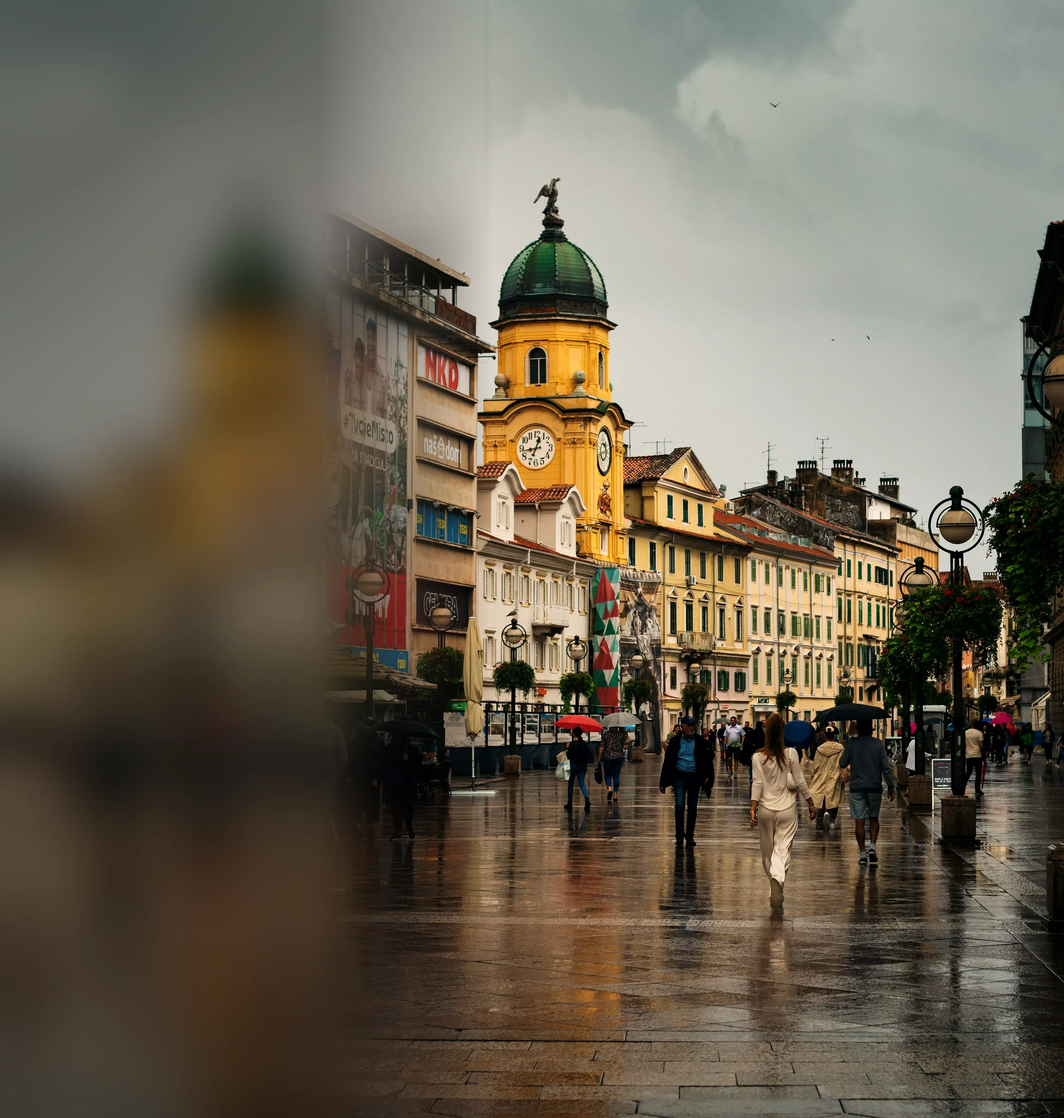
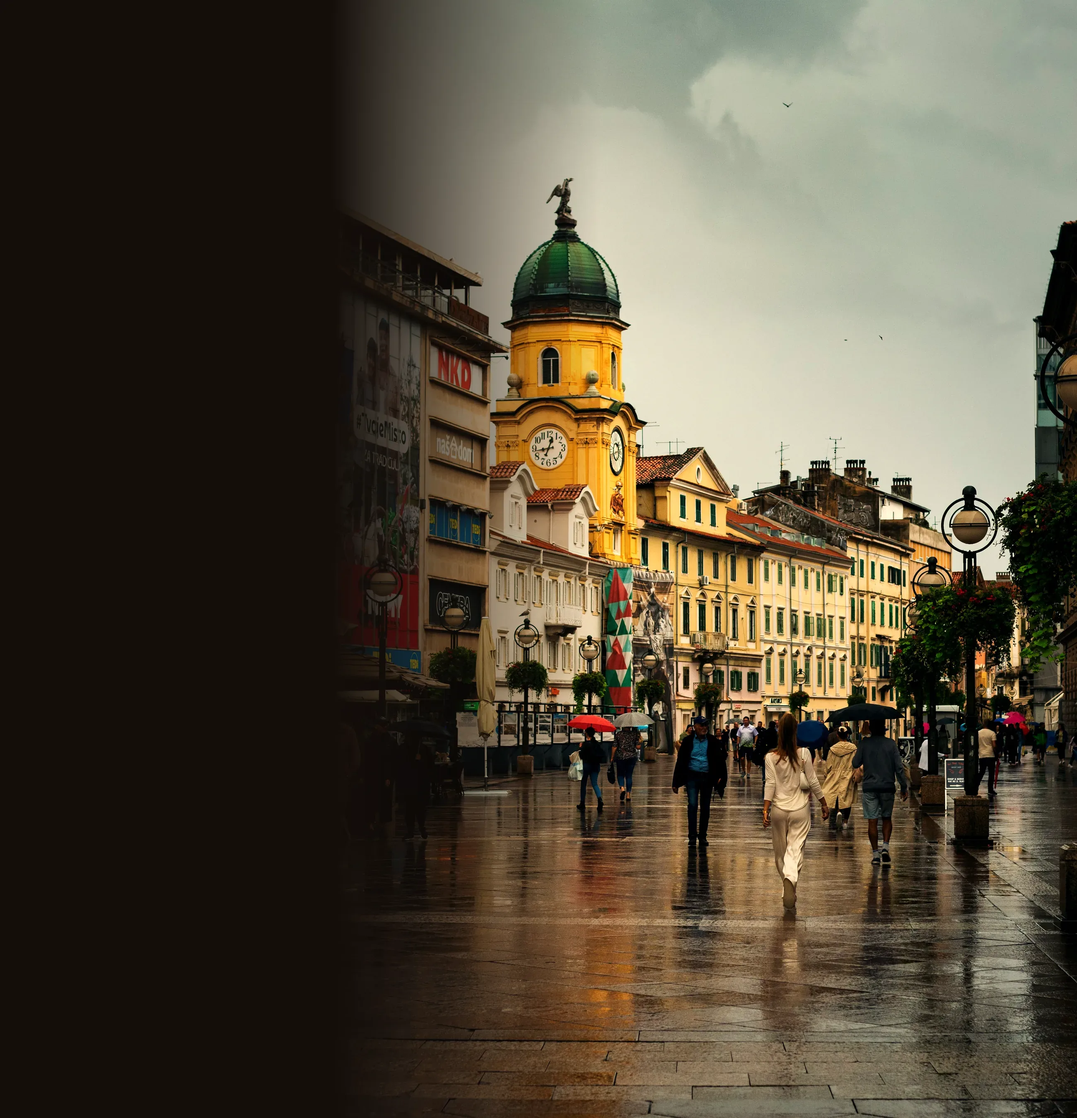
Pravne informacije: cleaner layout, plain dark left side flowing smoothly into a warmer Korzo photo with the whole clock tower and the street

diff --git a/index.html b/index.html
@@ -14,12 +14,12 @@
 <meta property="og:description" content="Prevoditeljska agencija Orbita: ovjereni prijevodi sudskih tumača, pisani i usmeni prijevodi na više od 30 jezika te lektura. Uredi u Rijeci (Kastav) i Zagrebu. Zatražite neobvezujuću ponudu.">
 <meta property="og:image" content="https://www.orbitaprijevodi.com/assets/hero-desk.jpg">
 <meta property="og:locale" content="hr_HR">
-<link rel="preload" as="image" href="assets/hero-desk.webp?v=110" type="image/webp">
+<link rel="preload" as="image" href="assets/hero-desk.webp?v=112" type="image/webp">
 <script type="application/ld+json">{"@context": "https://schema.org", "@graph": [{"@type": "ProfessionalService", "name": "Orbita prijevodi, ured u Rijeci", "url": "https://www.orbitaprijevodi.com/", "image": "https://www.orbitaprijevodi.com/assets/hero-desk.jpg", "logo": "https://www.orbitaprijevodi.com/assets/orbita-logo.png", "telephone": "+385981631930", "email": "info@orbitaprijevodi.com", "address": {"@type": "PostalAddress", "streetAddress": "Ćikovići 109", "addressLocality": "Kastav", "postalCode": "51215", "addressCountry": "HR"}, "areaServed": "HR", "knowsLanguage": ["hr", "en", "sl", "sr", "de", "it", "fr", "es"], "contactPoint": [{"@type": "ContactPoint", "telephone": "+385981631930", "contactType": "customer service", "availableLanguage": ["Croatian", "English", "Slovenian"]}, {"@type": "ContactPoint", "telephone": "+38551223932", "contactType": "customer service", "availableLanguage": ["Croatian", "English", "Slovenian"]}]}, {"@type": "ProfessionalService", "name": "Orbita prijevodi, ured u Zagrebu", "url": "https://www.orbitaprijevodi.com/", "image": "https://www.orbitaprijevodi.com/assets/hero-desk.jpg", "logo": "https://www.orbitaprijevodi.com/assets/orbita-logo.png", "telephone": "+385916126784", "email": "zagreb@orbitaprijevodi.com", "address": {"@type": "PostalAddress", "streetAddress": "Martićeva ulica 67", "addressLocality": "Zagreb", "postalCode": "10000", "addressCountry": "HR"}, "areaServed": "HR", "knowsLanguage": ["hr", "en", "sl", "sr", "de", "it", "fr", "es"], "contactPoint": [{"@type": "ContactPoint", "telephone": "+385916126784", "contactType": "customer service", "availableLanguage": ["Croatian", "English", "Slovenian"]}, {"@type": "ContactPoint", "telephone": "+38512018053", "contactType": "customer service", "availableLanguage": ["Croatian", "English", "Slovenian"]}]}]}</script>
 <link rel="preconnect" href="https://fonts.googleapis.com">
 <link rel="preconnect" href="https://fonts.gstatic.com" crossorigin>
 <link href="https://fonts.googleapis.com/css2?family=Fraunces:ital,opsz,wght@0,9..144,300;0,9..144,400;1,9..144,300;1,9..144,400&family=DM+Sans:wght@400;500&family=DM+Mono:wght@400&display=swap" rel="stylesheet">
-<link rel="stylesheet" href="styles.css?v=110">
+<link rel="stylesheet" href="styles.css?v=112">
 </head>
 <body>
 
@@ -308,11 +308,11 @@
 
 <a class="float-cta pill pill-accent" href="#ponuda">Zatražite ponudu</a>
 
-<script src="content.js?v=110"></script>
+<script src="content.js?v=112"></script>
 <script src="https://cdn.jsdelivr.net/npm/topojson-client@3.1.0/dist/topojson-client.min.js"></script>
-<script src="globe.js?v=110"></script>
-<script src="app.js?v=110"></script>
-<script src="form.js?v=110"></script>
-<script src="consent.js?v=110"></script>
+<script src="globe.js?v=112"></script>
+<script src="app.js?v=112"></script>
+<script src="form.js?v=112"></script>
+<script src="consent.js?v=112"></script>
 </body>
 </html>

diff --git a/pisanje-dokumentacije-za-studij-i-zaposlenje-u-inozemstvu/index.html b/pisanje-dokumentacije-za-studij-i-zaposlenje-u-inozemstvu/index.html
@@ -19,7 +19,7 @@
 <link rel="preconnect" href="https://fonts.googleapis.com">
 <link rel="preconnect" href="https://fonts.gstatic.com" crossorigin>
 <link href="https://fonts.googleapis.com/css2?family=Fraunces:ital,opsz,wght@0,9..144,300;0,9..144,400;1,9..144,300;1,9..144,400&family=DM+Sans:wght@400;500&family=DM+Mono:wght@400&display=swap" rel="stylesheet">
-<link rel="stylesheet" href="../styles.css?v=110">
+<link rel="stylesheet" href="../styles.css?v=112">
 </head>
 <body class="subpage">
 <header class="nav" id="nav">
@@ -39,7 +39,7 @@
 </header>
 <main>
   <section class="hero page-hero">
-    <div class="hero-bg lp-photo" style="background-image:url(../assets/usluge/pisanje-dokumentacije-za-studij-i-zaposlenje-u-inozemstvu.webp?v=110);background-position:50% 0%" aria-hidden="true"></div>
+    <div class="hero-bg lp-photo" style="background-image:url(../assets/usluge/pisanje-dokumentacije-za-studij-i-zaposlenje-u-inozemstvu.webp?v=112);background-position:50% 0%" aria-hidden="true"></div>
     <div class="hero-text">
       <div class="lp-offices" aria-label="Naši uredi"><div><strong>Rijeka</strong><span>Ćikovići 109, 51215 Kastav</span><a href="tel:+385981631930">098 163 19 30</a><a href="mailto:info@orbitaprijevodi.com">info@orbitaprijevodi.com</a></div><div><strong>Zagreb</strong><span>Martićeva ulica 67, 10000 Zagreb</span><a href="tel:+385916126784">091 612 6784</a><a href="mailto:zagreb@orbitaprijevodi.com">zagreb@orbitaprijevodi.com</a></div></div>
       <nav class="crumbs" aria-label="Putanja"><a href="../">Početna</a> <span>/</span> <a href="../usluge/">Usluge</a> <span>/</span> <span aria-current="page">Studij i posao u inozemstvu</span></nav>
@@ -140,8 +140,8 @@
     <nav><a href="../kontakt/">Kontakt</a><a href="../pravne-informacije/">Pravne informacije</a><a href="../zastita-privatnosti/">Zaštita privatnosti</a><a href="#" data-cookie-settings>Postavke kolačića</a></nav>
   </div>
 </footer>
-<script src="../page.js?v=110"></script>
-<script src="../consent.js?v=110"></script>
-<script src="../form.js?v=110"></script>
+<script src="../page.js?v=112"></script>
+<script src="../consent.js?v=112"></script>
+<script src="../form.js?v=112"></script>
 </body>
 </html>

diff --git a/pisanje-u-raznim-profesionalnim-podrucjima/index.html b/pisanje-u-raznim-profesionalnim-podrucjima/index.html
@@ -19,7 +19,7 @@
 <link rel="preconnect" href="https://fonts.googleapis.com">
 <link rel="preconnect" href="https://fonts.gstatic.com" crossorigin>
 <link href="https://fonts.googleapis.com/css2?family=Fraunces:ital,opsz,wght@0,9..144,300;0,9..144,400;1,9..144,300;1,9..144,400&family=DM+Sans:wght@400;500&family=DM+Mono:wght@400&display=swap" rel="stylesheet">
-<link rel="stylesheet" href="../styles.css?v=110">
+<link rel="stylesheet" href="../styles.css?v=112">
 </head>
 <body class="subpage">
 <header class="nav" id="nav">
@@ -39,7 +39,7 @@
 </header>
 <main>
   <section class="hero page-hero">
-    <div class="hero-bg lp-photo" style="background-image:url(../assets/usluge/pisanje-u-raznim-profesionalnim-podrucjima.webp?v=110);background-position:40% 50%" aria-hidden="true"></div>
+    <div class="hero-bg lp-photo" style="background-image:url(../assets/usluge/pisanje-u-raznim-profesionalnim-podrucjima.webp?v=112);background-position:40% 50%" aria-hidden="true"></div>
     <div class="hero-text">
       <div class="lp-offices" aria-label="Naši uredi"><div><strong>Rijeka</strong><span>Ćikovići 109, 51215 Kastav</span><a href="tel:+385981631930">098 163 19 30</a><a href="mailto:info@orbitaprijevodi.com">info@orbitaprijevodi.com</a></div><div><strong>Zagreb</strong><span>Martićeva ulica 67, 10000 Zagreb</span><a href="tel:+385916126784">091 612 6784</a><a href="mailto:zagreb@orbitaprijevodi.com">zagreb@orbitaprijevodi.com</a></div></div>
       <nav class="crumbs" aria-label="Putanja"><a href="../">Početna</a> <span>/</span> <a href="../usluge/">Usluge</a> <span>/</span> <span aria-current="page">Stručni tekstovi</span></nav>
@@ -140,8 +140,8 @@
     <nav><a href="../kontakt/">Kontakt</a><a href="../pravne-informacije/">Pravne informacije</a><a href="../zastita-privatnosti/">Zaštita privatnosti</a><a href="#" data-cookie-settings>Postavke kolačića</a></nav>
   </div>
 </footer>
-<script src="../page.js?v=110"></script>
-<script src="../consent.js?v=110"></script>
-<script src="../form.js?v=110"></script>
+<script src="../page.js?v=112"></script>
+<script src="../consent.js?v=112"></script>
+<script src="../form.js?v=112"></script>
 </body>
 </html>

diff --git a/asistiranje-u-pisanju-teksta/index.html b/asistiranje-u-pisanju-teksta/index.html
@@ -19,7 +19,7 @@
 <link rel="preconnect" href="https://fonts.googleapis.com">
 <link rel="preconnect" href="https://fonts.gstatic.com" crossorigin>
 <link href="https://fonts.googleapis.com/css2?family=Fraunces:ital,opsz,wght@0,9..144,300;0,9..144,400;1,9..144,300;1,9..144,400&family=DM+Sans:wght@400;500&family=DM+Mono:wght@400&display=swap" rel="stylesheet">
-<link rel="stylesheet" href="../styles.css?v=110">
+<link rel="stylesheet" href="../styles.css?v=112">
 </head>
 <body class="subpage">
 <header class="nav" id="nav">
@@ -39,7 +39,7 @@
 </header>
 <main>
   <section class="hero page-hero">
-    <div class="hero-bg lp-photo" style="background-image:url(../assets/usluge/asistiranje-u-pisanju-teksta.webp?v=110);background-position:50% 45%" aria-hidden="true"></div>
+    <div class="hero-bg lp-photo" style="background-image:url(../assets/usluge/asistiranje-u-pisanju-teksta.webp?v=112);background-position:50% 45%" aria-hidden="true"></div>
     <div class="hero-text">
       <div class="lp-offices" aria-label="Naši uredi"><div><strong>Rijeka</strong><span>Ćikovići 109, 51215 Kastav</span><a href="tel:+385981631930">098 163 19 30</a><a href="mailto:info@orbitaprijevodi.com">info@orbitaprijevodi.com</a></div><div><strong>Zagreb</strong><span>Martićeva ulica 67, 10000 Zagreb</span><a href="tel:+385916126784">091 612 6784</a><a href="mailto:zagreb@orbitaprijevodi.com">zagreb@orbitaprijevodi.com</a></div></div>
       <nav class="crumbs" aria-label="Putanja"><a href="../">Početna</a> <span>/</span> <a href="../usluge/">Usluge</a> <span>/</span> <span aria-current="page">Životopisi i motivacijska pisma</span></nav>
@@ -140,8 +140,8 @@
     <nav><a href="../kontakt/">Kontakt</a><a href="../pravne-informacije/">Pravne informacije</a><a href="../zastita-privatnosti/">Zaštita privatnosti</a><a href="#" data-cookie-settings>Postavke kolačića</a></nav>
   </div>
 </footer>
-<script src="../page.js?v=110"></script>
-<script src="../consent.js?v=110"></script>
-<script src="../form.js?v=110"></script>
+<script src="../page.js?v=112"></script>
+<script src="../consent.js?v=112"></script>
+<script src="../form.js?v=112"></script>
 </body>
 </html>

diff --git a/marketinski-tekstovi/index.html b/marketinski-tekstovi/index.html
@@ -19,7 +19,7 @@
 <link rel="preconnect" href="https://fonts.googleapis.com">
 <link rel="preconnect" href="https://fonts.gstatic.com" crossorigin>
 <link href="https://fonts.googleapis.com/css2?family=Fraunces:ital,opsz,wght@0,9..144,300;0,9..144,400;1,9..144,300;1,9..144,400&family=DM+Sans:wght@400;500&family=DM+Mono:wght@400&display=swap" rel="stylesheet">
-<link rel="stylesheet" href="../styles.css?v=110">
+<link rel="stylesheet" href="../styles.css?v=112">
 </head>
 <body class="subpage">
 <header class="nav" id="nav">
@@ -39,7 +39,7 @@
 </header>
 <main>
   <section class="hero page-hero">
-    <div class="hero-bg lp-photo" style="background-image:url(../assets/usluge/marketinski-tekstovi.webp?v=110);background-position:5% 55%" aria-hidden="true"></div>
+    <div class="hero-bg lp-photo" style="background-image:url(../assets/usluge/marketinski-tekstovi.webp?v=112);background-position:5% 55%" aria-hidden="true"></div>
     <div class="hero-text">
       <div class="lp-offices" aria-label="Naši uredi"><div><strong>Rijeka</strong><span>Ćikovići 109, 51215 Kastav</span><a href="tel:+385981631930">098 163 19 30</a><a href="mailto:info@orbitaprijevodi.com">info@orbitaprijevodi.com</a></div><div><strong>Zagreb</strong><span>Martićeva ulica 67, 10000 Zagreb</span><a href="tel:+385916126784">091 612 6784</a><a href="mailto:zagreb@orbitaprijevodi.com">zagreb@orbitaprijevodi.com</a></div></div>
       <nav class="crumbs" aria-label="Putanja"><a href="../">Početna</a> <span>/</span> <a href="../usluge/">Usluge</a> <span>/</span> <span aria-current="page">Marketinški tekstovi</span></nav>
@@ -140,8 +140,8 @@
     <nav><a href="../kontakt/">Kontakt</a><a href="../pravne-informacije/">Pravne informacije</a><a href="../zastita-privatnosti/">Zaštita privatnosti</a><a href="#" data-cookie-settings>Postavke kolačića</a></nav>
   </div>
 </footer>
-<script src="../page.js?v=110"></script>
-<script src="../consent.js?v=110"></script>
-<script src="../form.js?v=110"></script>
+<script src="../page.js?v=112"></script>
+<script src="../consent.js?v=112"></script>
+<script src="../form.js?v=112"></script>
 </body>
 </html>

diff --git a/ovjereni-prijevodi/index.html b/ovjereni-prijevodi/index.html
@@ -19,7 +19,7 @@
 <link rel="preconnect" href="https://fonts.googleapis.com">
 <link rel="preconnect" href="https://fonts.gstatic.com" crossorigin>
 <link href="https://fonts.googleapis.com/css2?family=Fraunces:ital,opsz,wght@0,9..144,300;0,9..144,400;1,9..144,300;1,9..144,400&family=DM+Sans:wght@400;500&family=DM+Mono:wght@400&display=swap" rel="stylesheet">
-<link rel="stylesheet" href="../styles.css?v=110">
+<link rel="stylesheet" href="../styles.css?v=112">
 </head>
 <body class="subpage">
 <header class="nav" id="nav">
@@ -39,7 +39,7 @@
 </header>
 <main>
   <section class="hero page-hero">
-    <div class="hero-bg lp-photo" style="background-image:url(../assets/usluge/ovjereni-prijevodi.webp?v=110);background-position:45% 60%" aria-hidden="true"></div>
+    <div class="hero-bg lp-photo" style="background-image:url(../assets/usluge/ovjereni-prijevodi.webp?v=112);background-position:45% 60%" aria-hidden="true"></div>
     <div class="hero-text">
       <div class="lp-offices" aria-label="Naši uredi"><div><strong>Rijeka</strong><span>Ćikovići 109, 51215 Kastav</span><a href="tel:+385981631930">098 163 19 30</a><a href="mailto:info@orbitaprijevodi.com">info@orbitaprijevodi.com</a></div><div><strong>Zagreb</strong><span>Martićeva ulica 67, 10000 Zagreb</span><a href="tel:+385916126784">091 612 6784</a><a href="mailto:zagreb@orbitaprijevodi.com">zagreb@orbitaprijevodi.com</a></div></div>
       <nav class="crumbs" aria-label="Putanja"><a href="../">Početna</a> <span>/</span> <a href="../usluge/">Usluge</a> <span>/</span> <span aria-current="page">Ovjereni prijevodi</span></nav>
@@ -142,8 +142,8 @@
     <nav><a href="../kontakt/">Kontakt</a><a href="../pravne-informacije/">Pravne informacije</a><a href="../zastita-privatnosti/">Zaštita privatnosti</a><a href="#" data-cookie-settings>Postavke kolačića</a></nav>
   </div>
 </footer>
-<script src="../page.js?v=110"></script>
-<script src="../consent.js?v=110"></script>
-<script src="../form.js?v=110"></script>
+<script src="../page.js?v=112"></script>
+<script src="../consent.js?v=112"></script>
+<script src="../form.js?v=112"></script>
 </body>
 </html>

diff --git a/usmeni-prijevodi/index.html b/usmeni-prijevodi/index.html
@@ -19,7 +19,7 @@
 <link rel="preconnect" href="https://fonts.googleapis.com">
 <link rel="preconnect" href="https://fonts.gstatic.com" crossorigin>
 <link href="https://fonts.googleapis.com/css2?family=Fraunces:ital,opsz,wght@0,9..144,300;0,9..144,400;1,9..144,300;1,9..144,400&family=DM+Sans:wght@400;500&family=DM+Mono:wght@400&display=swap" rel="stylesheet">
-<link rel="stylesheet" href="../styles.css?v=110">
+<link rel="stylesheet" href="../styles.css?v=112">
 </head>
 <body class="subpage">
 <header class="nav" id="nav">
@@ -39,7 +39,7 @@
 </header>
 <main>
   <section class="hero page-hero">
-    <div class="hero-bg lp-photo" style="background-image:url(../assets/usluge/usmeni-prijevodi.webp?v=110);background-position:55% 70%" aria-hidden="true"></div>
+    <div class="hero-bg lp-photo" style="background-image:url(../assets/usluge/usmeni-prijevodi.webp?v=112);background-position:55% 70%" aria-hidden="true"></div>
     <div class="hero-text">
       <div class="lp-offices" aria-label="Naši uredi"><div><strong>Rijeka</strong><span>Ćikovići 109, 51215 Kastav</span><a href="tel:+385981631930">098 163 19 30</a><a href="mailto:info@orbitaprijevodi.com">info@orbitaprijevodi.com</a></div><div><strong>Zagreb</strong><span>Martićeva ulica 67, 10000 Zagreb</span><a href="tel:+385916126784">091 612 6784</a><a href="mailto:zagreb@orbitaprijevodi.com">zagreb@orbitaprijevodi.com</a></div></div>
       <nav class="crumbs" aria-label="Putanja"><a href="../">Početna</a> <span>/</span> <a href="../usluge/">Usluge</a> <span>/</span> <span aria-current="page">Usmeno prevođenje</span></nav>
@@ -140,8 +140,8 @@
     <nav><a href="../kontakt/">Kontakt</a><a href="../pravne-informacije/">Pravne informacije</a><a href="../zastita-privatnosti/">Zaštita privatnosti</a><a href="#" data-cookie-settings>Postavke kolačića</a></nav>
   </div>
 </footer>
-<script src="../page.js?v=110"></script>
-<script src="../consent.js?v=110"></script>
-<script src="../form.js?v=110"></script>
+<script src="../page.js?v=112"></script>
+<script src="../consent.js?v=112"></script>
+<script src="../form.js?v=112"></script>
 </body>
 </html>

diff --git a/pisani-prijevodi/index.html b/pisani-prijevodi/index.html
@@ -19,7 +19,7 @@
 <link rel="preconnect" href="https://fonts.googleapis.com">
 <link rel="preconnect" href="https://fonts.gstatic.com" crossorigin>
 <link href="https://fonts.googleapis.com/css2?family=Fraunces:ital,opsz,wght@0,9..144,300;0,9..144,400;1,9..144,300;1,9..144,400&family=DM+Sans:wght@400;500&family=DM+Mono:wght@400&display=swap" rel="stylesheet">
-<link rel="stylesheet" href="../styles.css?v=110">
+<link rel="stylesheet" href="../styles.css?v=112">
 </head>
 <body class="subpage">
 <header class="nav" id="nav">
@@ -39,7 +39,7 @@
 </header>
 <main>
   <section class="hero page-hero">
-    <div class="hero-bg lp-photo" style="background-image:url(../assets/usluge/pisani-prijevodi.webp?v=110);background-position:70% 40%" aria-hidden="true"></div>
+    <div class="hero-bg lp-photo" style="background-image:url(../assets/usluge/pisani-prijevodi.webp?v=112);background-position:70% 40%" aria-hidden="true"></div>
     <div class="hero-text">
       <div class="lp-offices" aria-label="Naši uredi"><div><strong>Rijeka</strong><span>Ćikovići 109, 51215 Kastav</span><a href="tel:+385981631930">098 163 19 30</a><a href="mailto:info@orbitaprijevodi.com">info@orbitaprijevodi.com</a></div><div><strong>Zagreb</strong><span>Martićeva ulica 67, 10000 Zagreb</span><a href="tel:+385916126784">091 612 6784</a><a href="mailto:zagreb@orbitaprijevodi.com">zagreb@orbitaprijevodi.com</a></div></div>
       <nav class="crumbs" aria-label="Putanja"><a href="../">Početna</a> <span>/</span> <a href="../usluge/">Usluge</a> <span>/</span> <span aria-current="page">Pisani prijevodi</span></nav>
@@ -141,8 +141,8 @@
     <nav><a href="../kontakt/">Kontakt</a><a href="../pravne-informacije/">Pravne informacije</a><a href="../zastita-privatnosti/">Zaštita privatnosti</a><a href="#" data-cookie-settings>Postavke kolačića</a></nav>
   </div>
 </footer>
-<script src="../page.js?v=110"></script>
-<script src="../consent.js?v=110"></script>
-<script src="../form.js?v=110"></script>
+<script src="../page.js?v=112"></script>
+<script src="../consent.js?v=112"></script>
+<script src="../form.js?v=112"></script>
 </body>
 </html>

diff --git a/lektoriranje/index.html b/lektoriranje/index.html
@@ -19,7 +19,7 @@
 <link rel="preconnect" href="https://fonts.googleapis.com">
 <link rel="preconnect" href="https://fonts.gstatic.com" crossorigin>
 <link href="https://fonts.googleapis.com/css2?family=Fraunces:ital,opsz,wght@0,9..144,300;0,9..144,400;1,9..144,300;1,9..144,400&family=DM+Sans:wght@400;500&family=DM+Mono:wght@400&display=swap" rel="stylesheet">
-<link rel="stylesheet" href="../styles.css?v=110">
+<link rel="stylesheet" href="../styles.css?v=112">
 </head>
 <body class="subpage">
 <header class="nav" id="nav">
@@ -39,7 +39,7 @@
 </header>
 <main>
   <section class="hero page-hero">
-    <div class="hero-bg lp-photo" style="background-image:url(../assets/usluge/lektoriranje.webp?v=110);background-position:45% 55%" aria-hidden="true"></div>
+    <div class="hero-bg lp-photo" style="background-image:url(../assets/usluge/lektoriranje.webp?v=112);background-position:45% 55%" aria-hidden="true"></div>
     <div class="hero-text">
       <div class="lp-offices" aria-label="Naši uredi"><div><strong>Rijeka</strong><span>Ćikovići 109, 51215 Kastav</span><a href="tel:+385981631930">098 163 19 30</a><a href="mailto:info@orbitaprijevodi.com">info@orbitaprijevodi.com</a></div><div><strong>Zagreb</strong><span>Martićeva ulica 67, 10000 Zagreb</span><a href="tel:+385916126784">091 612 6784</a><a href="mailto:zagreb@orbitaprijevodi.com">zagreb@orbitaprijevodi.com</a></div></div>
       <nav class="crumbs" aria-label="Putanja"><a href="../">Početna</a> <span>/</span> <a href="../usluge/">Usluge</a> <span>/</span> <span aria-current="page">Lektura i korektura</span></nav>
@@ -140,8 +140,8 @@
     <nav><a href="../kontakt/">Kontakt</a><a href="../pravne-informacije/">Pravne informacije</a><a href="../zastita-privatnosti/">Zaštita privatnosti</a><a href="#" data-cookie-settings>Postavke kolačića</a></nav>
   </div>
 </footer>
-<script src="../page.js?v=110"></script>
-<script src="../consent.js?v=110"></script>
-<script src="../form.js?v=110"></script>
+<script src="../page.js?v=112"></script>
+<script src="../consent.js?v=112"></script>
+<script src="../form.js?v=112"></script>
 </body>
 </html>

diff --git a/styles.css b/styles.css
@@ -594,8 +594,8 @@ mark.todo { background: #ffe58a; color: #5a4300; padding: 1px 6px; border-radius
 
 /* Pravne informacije (Korzo photo): wider photo with a long, soft fade into the dark side */
 @media (min-width: 901px) {
-  .page-hero:not(.lp-hero) .hero-bg.lp-photo[style*="rijeka-korzo"] { left: 20%; -webkit-mask-image: linear-gradient(90deg, transparent 0, rgba(0, 0, 0, 0.35) 25%, rgba(0, 0, 0, 0.8) 45%, #000 62%); mask-image: linear-gradient(90deg, transparent 0, rgba(0, 0, 0, 0.35) 25%, rgba(0, 0, 0, 0.8) 45%, #000 62%); }
-  .page-hero:not(.lp-hero):has(.lp-photo[style*="rijeka-korzo"])::before { background: linear-gradient(90deg, rgba(20, 14, 10, 0.88) 0%, rgba(20, 14, 10, 0.7) 32%, rgba(20, 14, 10, 0.3) 55%, rgba(20, 14, 10, 0.08) 80%, rgba(20, 14, 10, 0) 100%); }
+  .page-hero:not(.lp-hero) .hero-bg.lp-photo[style*="rijeka-korzo"] { left: 0; transform: none; background-size: auto 135%; background-repeat: no-repeat; background-color: #1f140c; }
+  .page-hero:not(.lp-hero):has(.lp-photo[style*="rijeka-korzo"])::before { background: linear-gradient(90deg, rgba(20, 14, 10, 0.6) 0%, rgba(20, 14, 10, 0.35) 40%, rgba(20, 14, 10, 0) 70%); }
 }
 
 /* CV, lektura and medical ad pages: the whole photo, zoomed out, sitting on the right and melting into the dark on every side */
@@ -616,8 +616,7 @@ mark.todo { background: #ffe58a; color: #5a4300; padding: 1px 6px; border-radius
     mask-image: linear-gradient(90deg, transparent 0, #000 38%), linear-gradient(#000 0, #000 72%, transparent 100%); mask-composite: intersect;
   }
   .page-hero:not(.lp-hero) .hero-bg.lp-photo[style*="rijeka-korzo"] {
-    -webkit-mask-image: linear-gradient(90deg, transparent 0, rgba(0, 0, 0, 0.35) 25%, rgba(0, 0, 0, 0.8) 45%, #000 62%), linear-gradient(#000 0, #000 72%, transparent 100%);
-    mask-image: linear-gradient(90deg, transparent 0, rgba(0, 0, 0, 0.35) 25%, rgba(0, 0, 0, 0.8) 45%, #000 62%), linear-gradient(#000 0, #000 72%, transparent 100%);
+    -webkit-mask-image: linear-gradient(#000 0, #000 72%, transparent 100%); mask-image: linear-gradient(#000 0, #000 72%, transparent 100%);
   }
 }
 

diff --git a/zastita-privatnosti/index.html b/zastita-privatnosti/index.html
@@ -19,7 +19,7 @@
 <link rel="preconnect" href="https://fonts.googleapis.com">
 <link rel="preconnect" href="https://fonts.gstatic.com" crossorigin>
 <link href="https://fonts.googleapis.com/css2?family=Fraunces:ital,opsz,wght@0,9..144,300;0,9..144,400;1,9..144,300;1,9..144,400&family=DM+Sans:wght@400;500&family=DM+Mono:wght@400&display=swap" rel="stylesheet">
-<link rel="stylesheet" href="../styles.css?v=110">
+<link rel="stylesheet" href="../styles.css?v=112">
 </head>
 <body class="subpage">
 <header class="nav" id="nav">
@@ -39,7 +39,7 @@
 </header>
 <main>
   <section class="hero page-hero">
-    <div class="hero-bg lp-photo" style="background-image:url(../assets/usluge/zastita-privatnosti.webp?v=110);background-position:60% 50%" aria-hidden="true"></div>
+    <div class="hero-bg lp-photo" style="background-image:url(../assets/usluge/zastita-privatnosti.webp?v=112);background-position:60% 50%" aria-hidden="true"></div>
     <div class="hero-text">
       <div class="lp-offices" aria-label="Naši uredi"><div><strong>Rijeka</strong><span>Ćikovići 109, 51215 Kastav</span><a href="tel:+385981631930">098 163 19 30</a><a href="mailto:info@orbitaprijevodi.com">info@orbitaprijevodi.com</a></div><div><strong>Zagreb</strong><span>Martićeva ulica 67, 10000 Zagreb</span><a href="tel:+385916126784">091 612 6784</a><a href="mailto:zagreb@orbitaprijevodi.com">zagreb@orbitaprijevodi.com</a></div></div>
       <nav class="crumbs" aria-label="Putanja"><a href="../">Početna</a> <span>/</span> <span aria-current="page">Zaštita privatnosti</span></nav>
@@ -71,8 +71,8 @@
     <nav><a href="../kontakt/">Kontakt</a><a href="../pravne-informacije/">Pravne informacije</a><a href="../zastita-privatnosti/">Zaštita privatnosti</a><a href="#" data-cookie-settings>Postavke kolačića</a></nav>
   </div>
 </footer>
-<script src="../page.js?v=110"></script>
-<script src="../consent.js?v=110"></script>
-<script src="../form.js?v=110"></script>
+<script src="../page.js?v=112"></script>
+<script src="../consent.js?v=112"></script>
+<script src="../form.js?v=112"></script>
 </body>
 </html>

diff --git a/pravne-informacije/index.html b/pravne-informacije/index.html
@@ -19,7 +19,7 @@
 <link rel="preconnect" href="https://fonts.googleapis.com">
 <link rel="preconnect" href="https://fonts.gstatic.com" crossorigin>
 <link href="https://fonts.googleapis.com/css2?family=Fraunces:ital,opsz,wght@0,9..144,300;0,9..144,400;1,9..144,300;1,9..144,400&family=DM+Sans:wght@400;500&family=DM+Mono:wght@400&display=swap" rel="stylesheet">
-<link rel="stylesheet" href="../styles.css?v=110">
+<link rel="stylesheet" href="../styles.css?v=112">
 </head>
 <body class="subpage">
 <header class="nav" id="nav">
@@ -39,7 +39,7 @@
 </header>
 <main>
   <section class="hero page-hero">
-    <div class="hero-bg lp-photo" style="background-image:url(../assets/usluge/rijeka-korzo.webp?v=110);background-position:center 52%" aria-hidden="true"></div>
+    <div class="hero-bg lp-photo" style="background-image:url(../assets/usluge/rijeka-korzo.webp?v=112);background-position:right 51%" aria-hidden="true"></div>
     <div class="hero-text">
       <div class="lp-offices" aria-label="Naši uredi"><div><strong>Rijeka</strong><span>Ćikovići 109, 51215 Kastav</span><a href="tel:+385981631930">098 163 19 30</a><a href="mailto:info@orbitaprijevodi.com">info@orbitaprijevodi.com</a></div><div><strong>Zagreb</strong><span>Martićeva ulica 67, 10000 Zagreb</span><a href="tel:+385916126784">091 612 6784</a><a href="mailto:zagreb@orbitaprijevodi.com">zagreb@orbitaprijevodi.com</a></div></div>
       <nav class="crumbs" aria-label="Putanja"><a href="../">Početna</a> <span>/</span> <span aria-current="page">Pravne informacije</span></nav>
@@ -71,8 +71,8 @@
     <nav><a href="../kontakt/">Kontakt</a><a href="../pravne-informacije/">Pravne informacije</a><a href="../zastita-privatnosti/">Zaštita privatnosti</a><a href="#" data-cookie-settings>Postavke kolačića</a></nav>
   </div>
 </footer>
-<script src="../page.js?v=110"></script>
-<script src="../consent.js?v=110"></script>
-<script src="../form.js?v=110"></script>
+<script src="../page.js?v=112"></script>
+<script src="../consent.js?v=112"></script>
+<script src="../form.js?v=112"></script>
 </body>
 </html>
